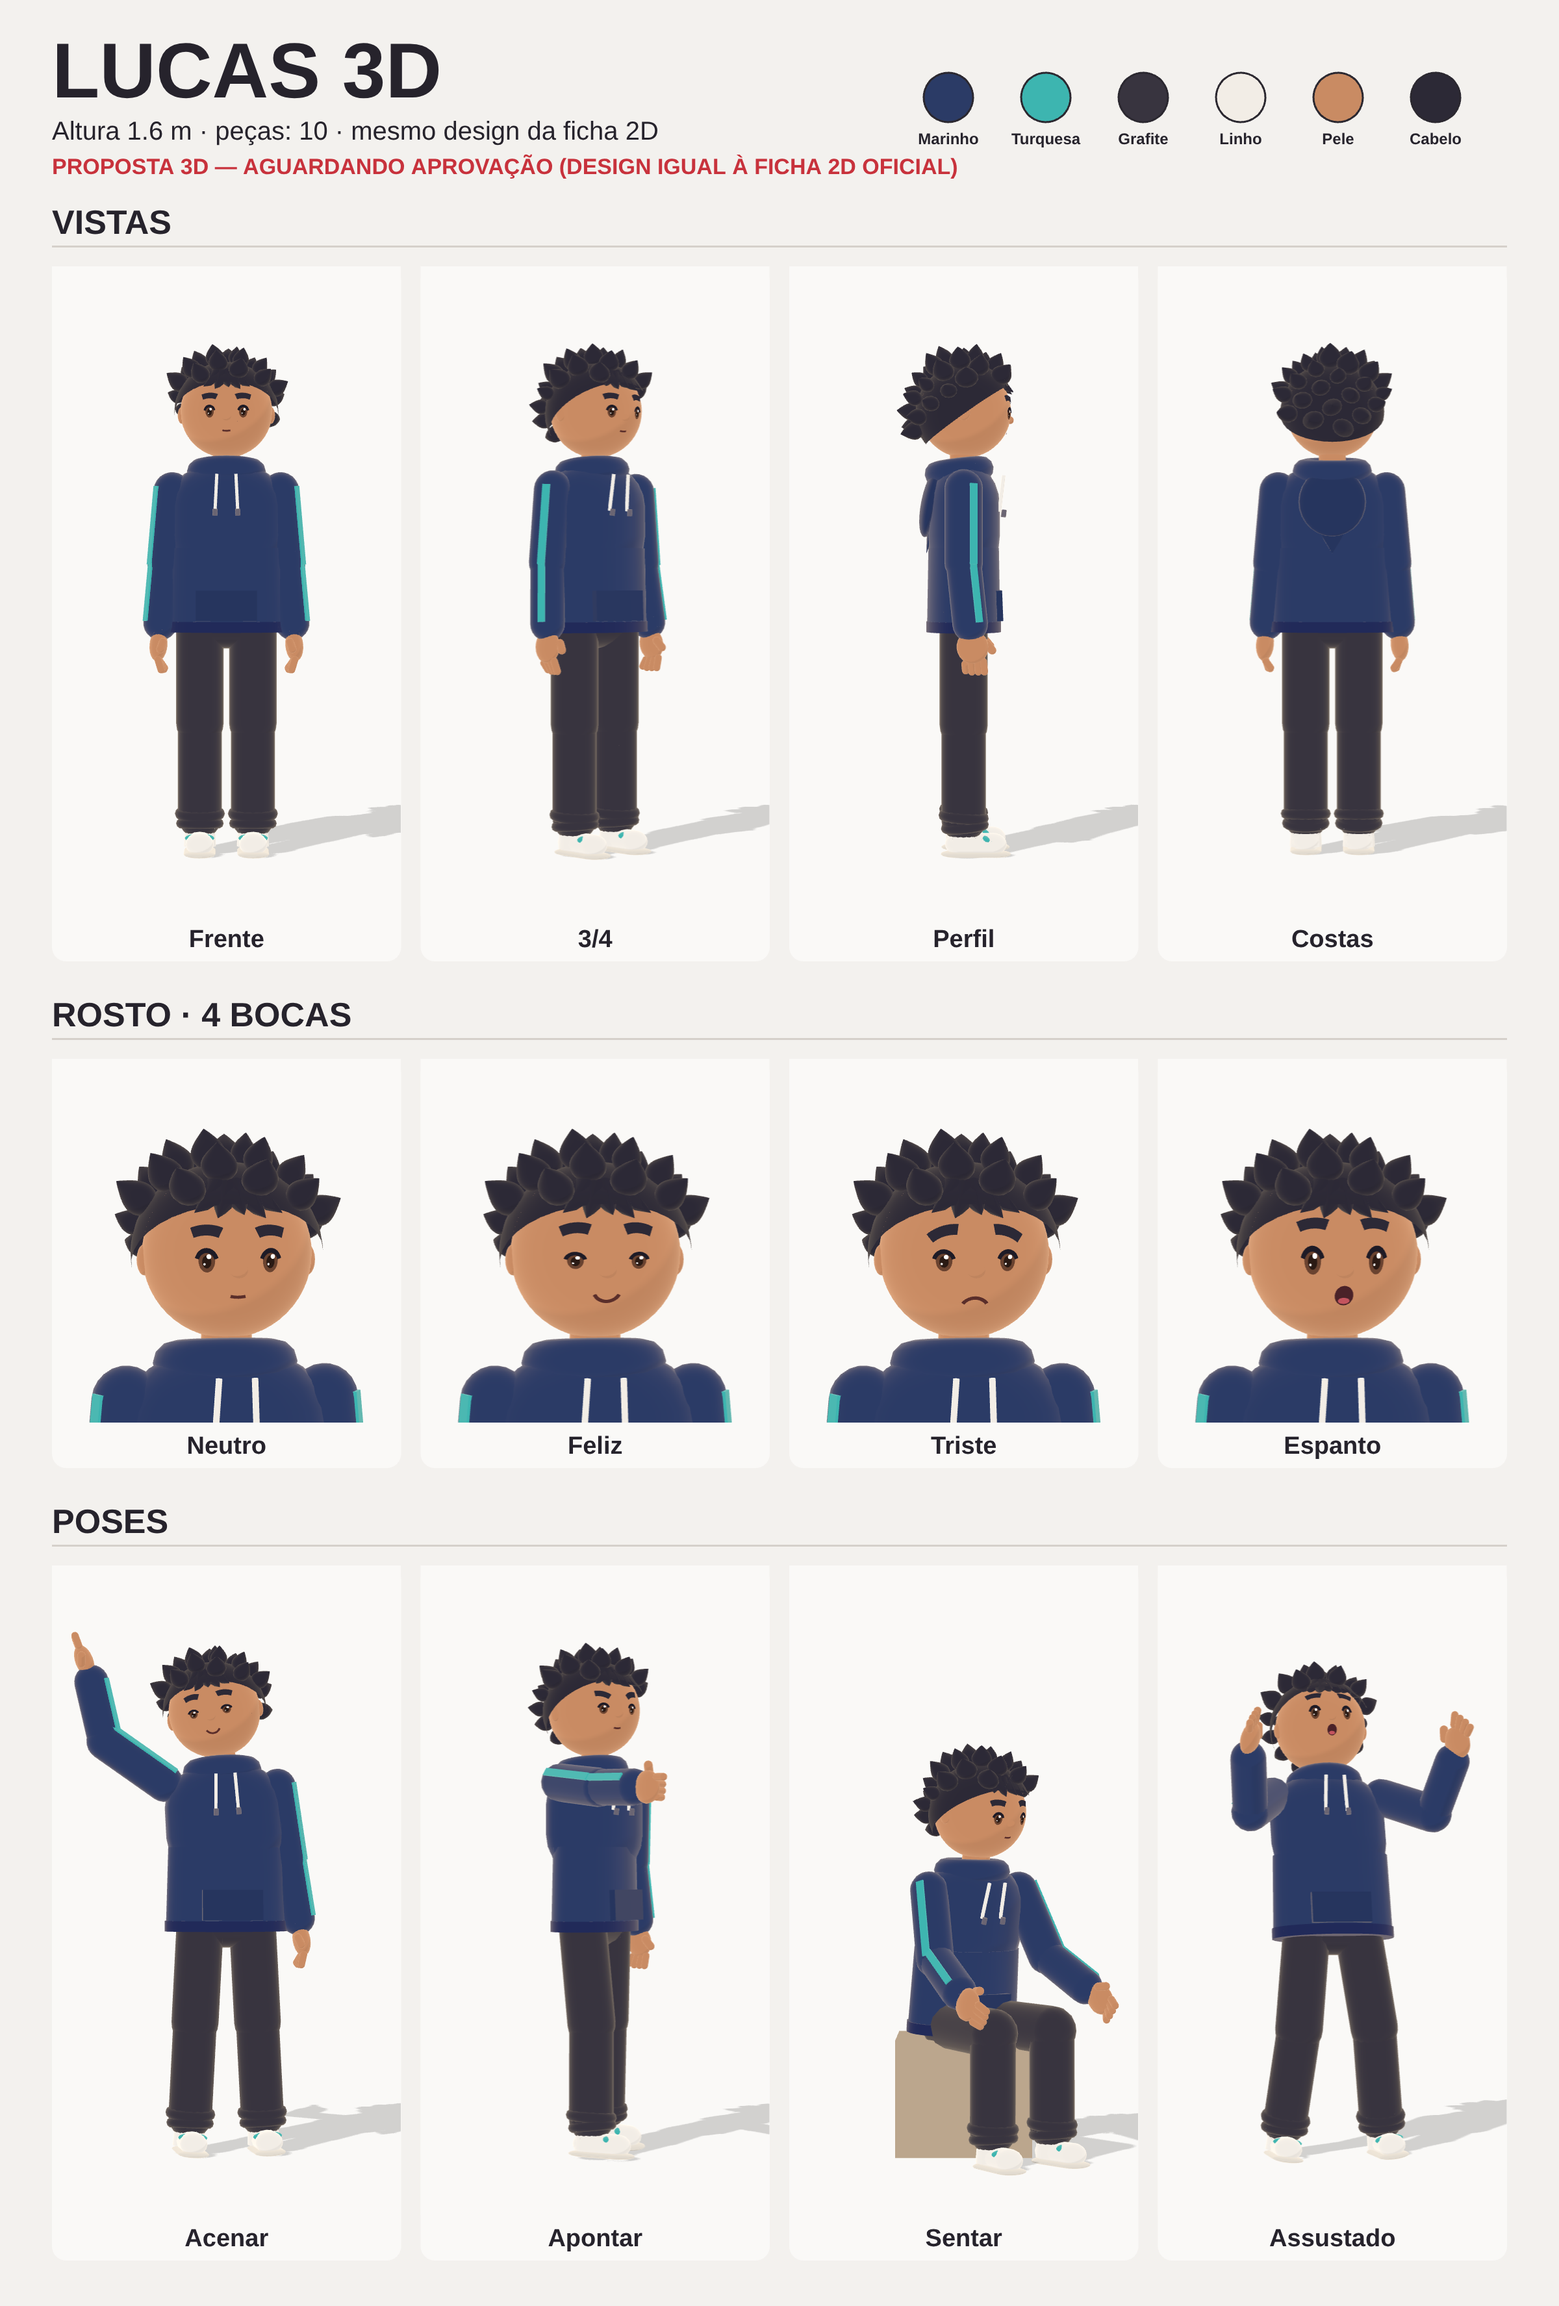
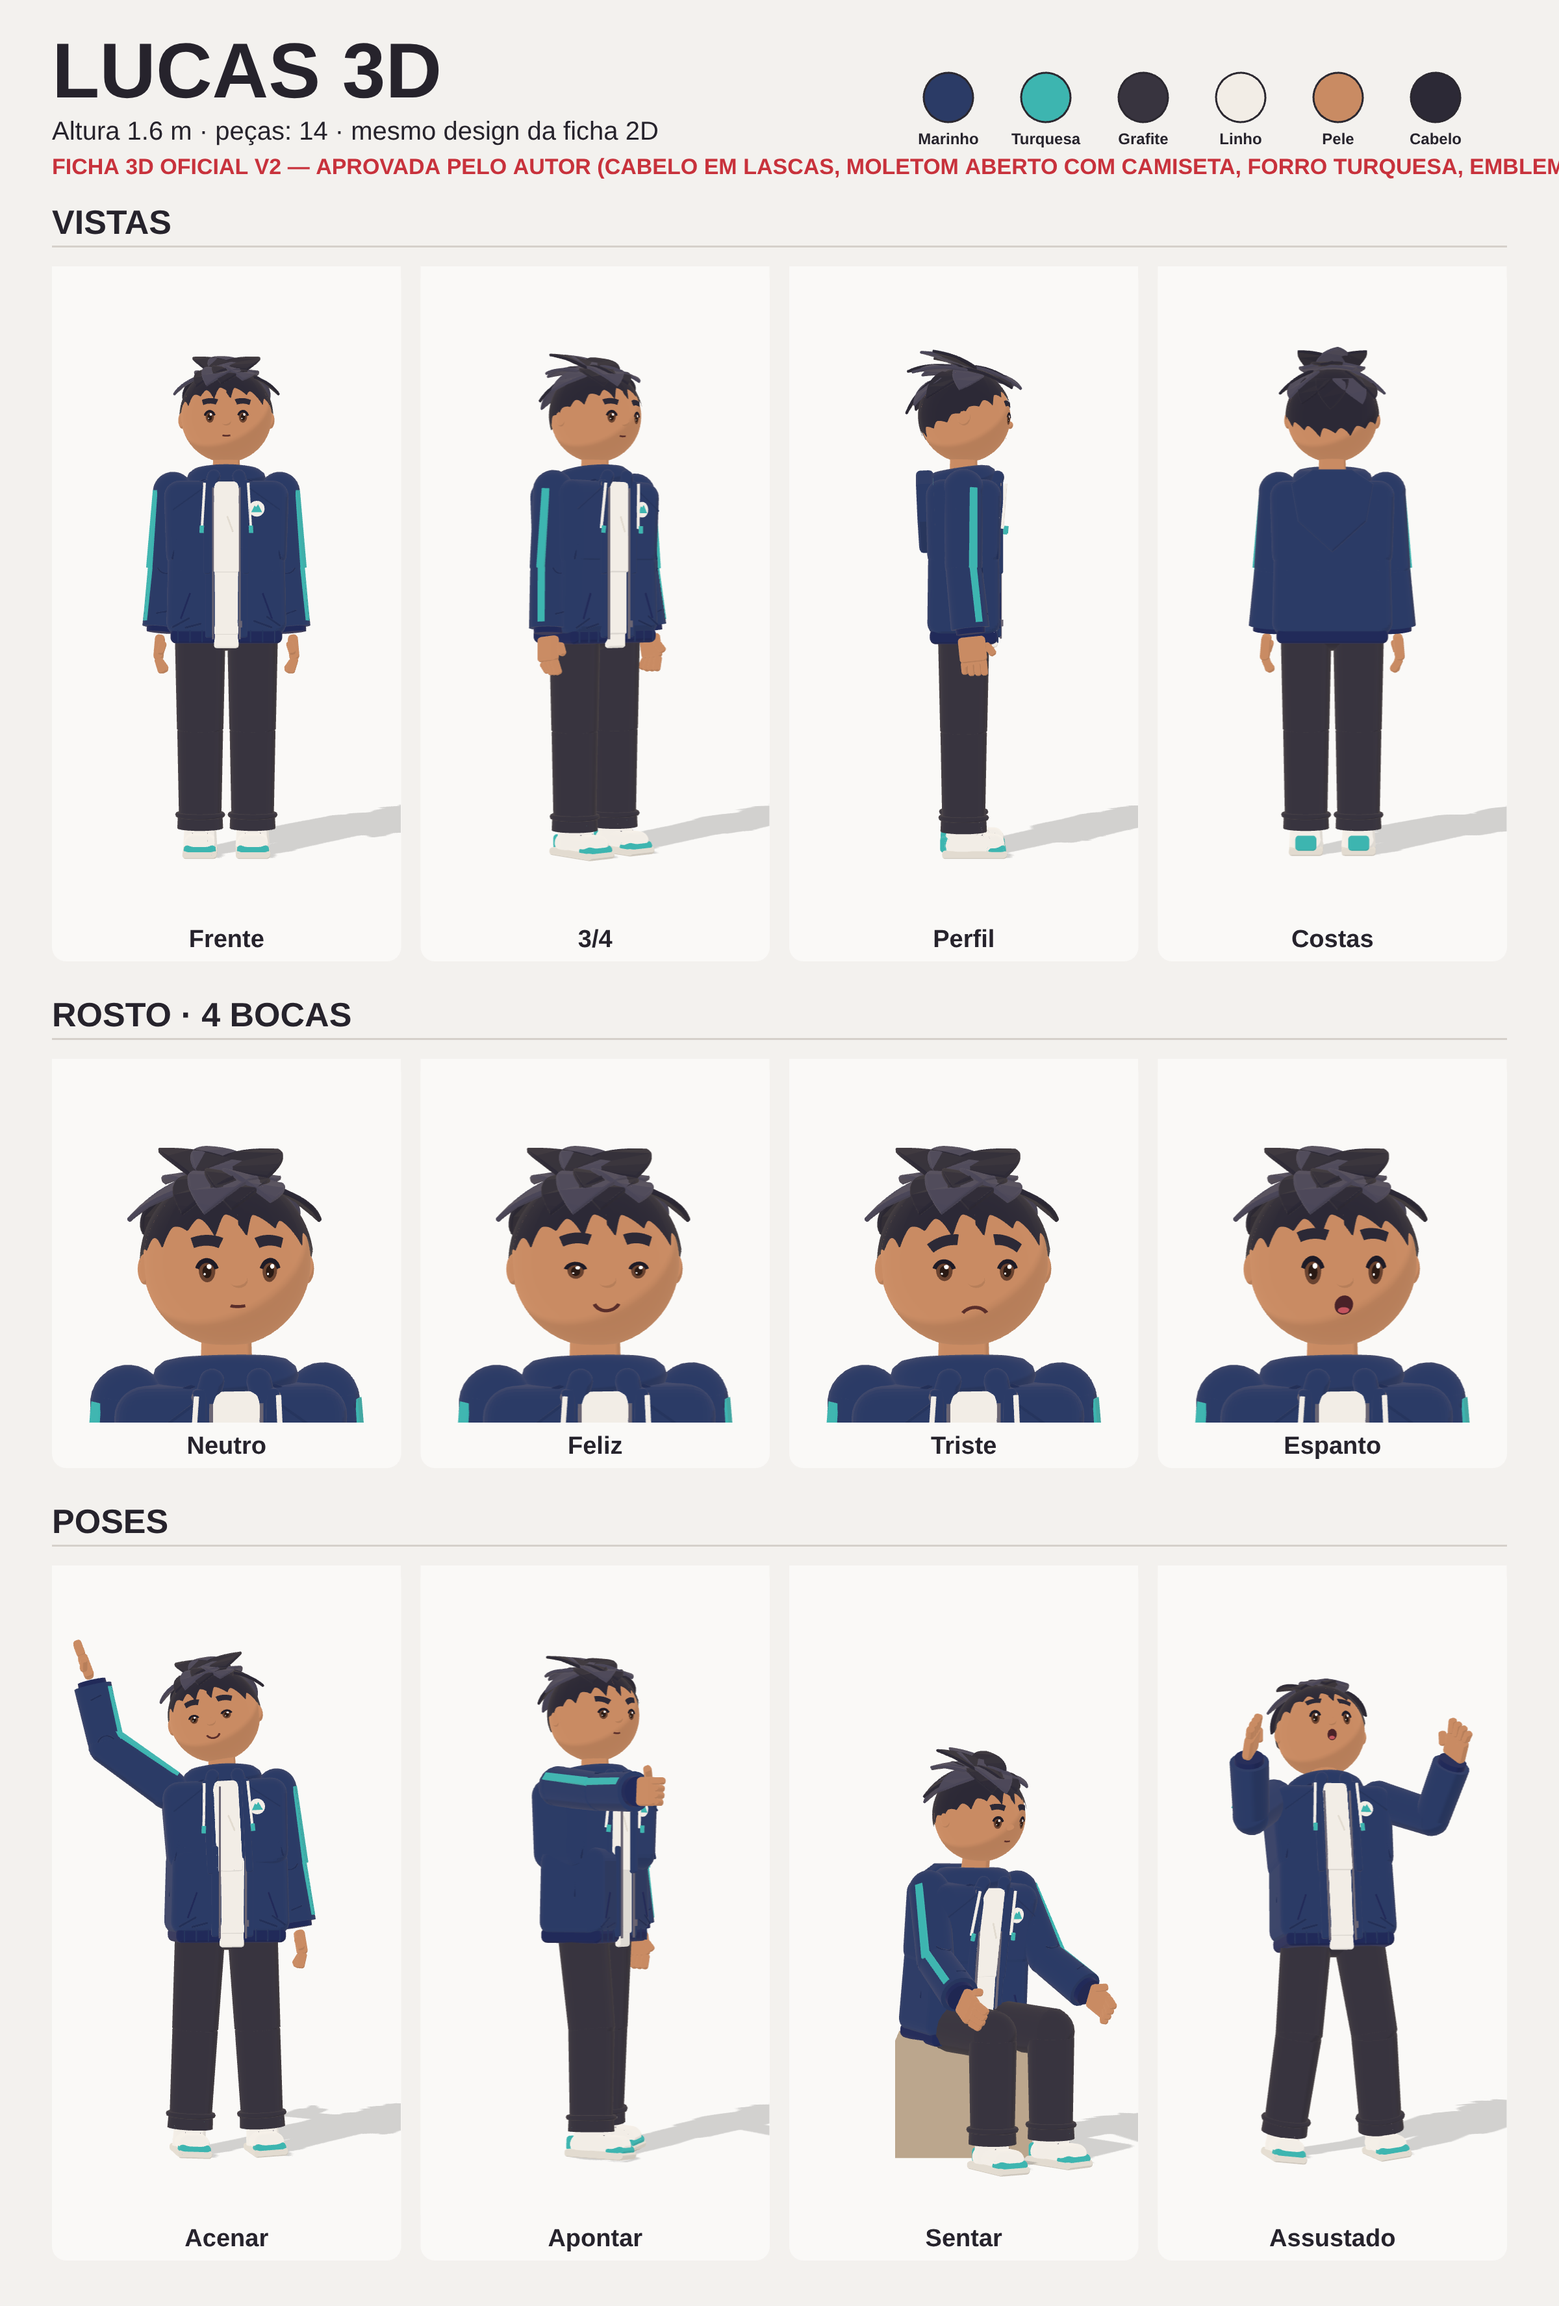
Lucas 3D v2 aprovado (opção C): ficha oficial regerada
Claude-Session: https://claude.ai/code/session_01VxVnSAt7ghSMkQzaZUyjgX

diff --git a/personagens/lucas/3d/ficha.md b/personagens/lucas/3d/ficha.md
@@ -1,10 +1,13 @@
 # Lucas 3D — ficha oficial (aprovada)
 
-> Versão 3D do Lucas para o motor novo. **Mesmo design da ficha oficial 2D** (`../ficha.md`): mesmas cores,
-> moletom marinho com faixa turquesa, capuz enrolado, cordões linho, calça grafite larga com barra embolada,
-> tênis linho de cano alto com detalhes turquesa, pele morena, cabelo noite bagunçado em mechas.
-> **Aprovada pelo autor.** No motor 3D, o Lucas é sempre `criarBoneco(ficha.json)`, sem mudar a aparência.
-> A ficha 2D continua valendo para o motor 2D.
+> Versão 3D do Lucas (v2, estilo 3D chapado das referências), **aprovada pelo autor** (opção C).
+> Mesmas cores e identidade da ficha 2D (`../ficha.md`), com:
+> - **cabelo** noite em lascas planas e pontudas, bagunçado, franja caída de lado;
+> - **moletom** marinho **aberto com zíper** sobre **camiseta linho**, faixa turquesa nas mangas, punhos e barra
+>   canelados, bolsos de fenda, **forro do capuz turquesa**, cordões linho com pontas turquesa e **emblema de montanha**
+>   (turquesa sobre círculo linho) no peito;
+> - calça grafite larga com barra dobrada; tênis linho de cano alto com gola, biqueira e calcanhar turquesa.
+> No motor 3D, o Lucas é sempre `criarBoneco(ficha.json)`, sem mudar a aparência. A ficha 2D continua valendo para o motor 2D.
 
 ![Ficha 3D](ficha.png)
 
@@ -19,3 +22,7 @@
 
 Regerar a folha: `node motor/render/quadros.js motor/visual/ficha3d.html --quadros 0 --saida previas/motor3d/ficha3d`
 e copiar `quadro_00000.png` para cá como `ficha.png`.
+
+## Histórico
+- v1 aprovada (cabelo em gotas, moletom fechado).
+- v2 aprovada: estilo das referências (cabelo em lascas, roupa em blocos, mãos de luva, sombra de desenho), roupa opção C. Ficha regerada.

diff --git a/motor/PROJECT_STATE.md b/motor/PROJECT_STATE.md
@@ -43,7 +43,7 @@ Roteiro de construção: `referencias/documentos/PROMPTS_RECRIAR.md` (prompts 0 
 - Cabelo: calota inclinada para trás + mechas em gota (LatheGeometry) apontando para fora; bolinhas pareciam "black power" e cones puros pareciam anime.
 - Pastas `visual/` e `personagem/` têm `package.json` com `"type": "module"` para o Node importar os módulos nos testes.
 
-## Lucas 3D v2 (proposta, aguardando aprovação)
+## Lucas 3D v2 — APROVADO (opção C: moletom aberto com camiseta, forro turquesa, emblema)
 - Pedido do autor: estilo dos personagens das referências (3D chapado): cabelo em lascas planas e pontudas, tronco em bloco,
   mãos de luva, sombreado bem liso. Mantém a identidade do Lucas (cores, moletom, pele, cabelo escuro); não copia o personagem da referência.
 - Cabelo: casco com borda recortada (franja/nuca) + lascas planas (ExtrudeGeometry fina, curvada) em camadas e dois tons.
@@ -55,7 +55,7 @@ Roteiro de construção: `referencias/documentos/PROMPTS_RECRIAR.md` (prompts 0 
   Sombra de desenho mais marcada nos personagens (rampa com gMin 0,66; a face iluminada segue com a cor exata) e dobras de tecido.
   Opções de roupa para o autor escolher: `previas/motor3d/roupas/opcoes.png` (A fechado, B detalhes turquesa: forro + emblema de montanha,
   C aberto com camiseta) — variantes ligadas por peças na ficha ('forro_turquesa', 'emblema', 'ziper_aberto', 'dobras').
-  Quando aprovada: copiar a folha para `personagens/lucas/3d/ficha.png` e mudar o status na ficha.
+  Aprovada: folha oficial em `personagens/lucas/3d/ficha.png`.
 
 ## Animador (prompt 4) — `animacao/`
 - `animador.js` (puro, sem three): chaves {t, pose, curva}. **Padrão 'fluida'**: spline cúbica monotônica (PCHIP)
